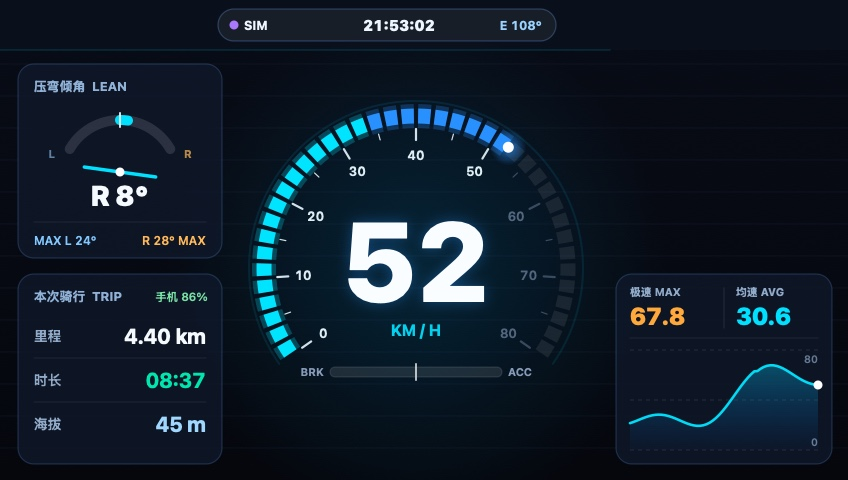
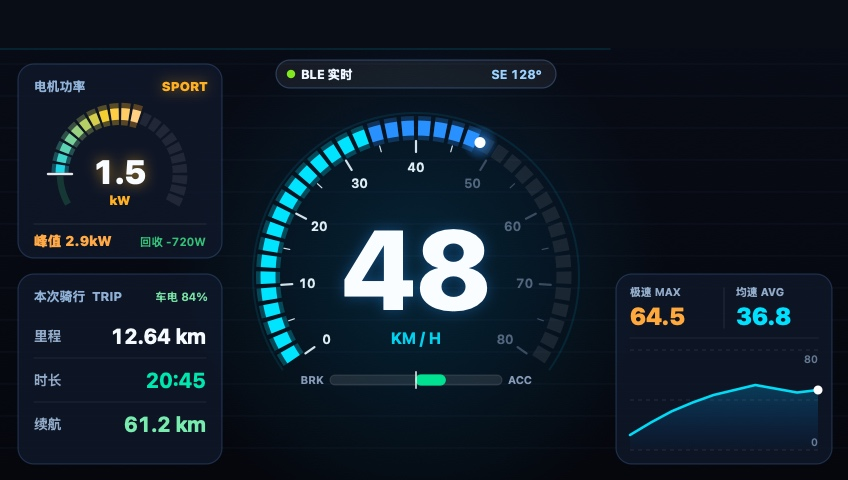
docs: showcase all 5 themes including Hyperdrive and beginner-friendly setup guide

diff --git a/README.md b/README.md
@@ -1,99 +1,189 @@
 <div align="center">
   <img src="assets/app-icon.png" alt="NinebotDash Icon" width="112" />
   <h1>NinebotDash</h1>
-  <p><strong>专为九号 5 寸全彩 TFT 仪表（848×480）打造的自定义 GPS 运动仪表投屏 App</strong></p>
+  <p><strong>把九号 5 寸彩色仪表变成你的专属运动座舱（支持免密钥 GPS 投屏 & 离线蓝牙实车遥测）</strong></p>
 
   <p>
     <a href="https://github.com/zyfzsi/NinebotDash/releases/latest">
       <img src="https://img.shields.io/github/v/release/zyfzsi/NinebotDash?label=Latest%20Release&color=0ea5e9&style=flat-square" alt="Latest Release" />
     </a>
-    <img src="https://img.shields.io/badge/iOS-16.0%2B%20(arm64)-10b981?style=flat-square" alt="iOS 16.0+" />
+    <img src="https://img.shields.io/badge/iOS-16.0%2B%20(iPhone)-10b981?style=flat-square" alt="iOS 16.0+" />
     <img src="https://img.shields.io/badge/Ninebot-5%E5%AF%B8%20848%C3%97480-f59e0b?style=flat-square" alt="Ninebot 5-inch" />
+    <img src="https://img.shields.io/badge/BLE-%E7%BA%AF%E5%8F%AA%E8%AF%BB%E4%B8%8D%E6%94%B9%E8%BD%A6-38bdf8?style=flat-square" alt="BLE Read-Only" />
   </p>
 
   <p>
-    <a href="https://github.com/zyfzsi/NinebotDash/releases/latest"><strong>立即下载最新 IPA</strong></a>
+    <a href="https://github.com/zyfzsi/NinebotDash/releases/latest"><strong>立即下载最新安装包 (IPA)</strong></a>
     ·
-    <a href="#四套内置主题预览">主题预览</a>
+    <a href="#五套内置主题预览">五套主题预览</a>
     ·
-    <a href="#安装与上车使用">安装与使用</a>
+    <a href="#新手-3-步上手教程零基础直接用">3 步新手教程</a>
     ·
-    <a href="https://github.com/zyfzsi/NinebotDash/issues">问题反馈</a>
+    <a href="#进阶可选离线蓝牙遥测配置说明">蓝牙配置说明</a>
+    ·
+    <a href="#常见问题答疑">常见问题</a>
+    ·
+    <a href="https://github.com/zyfzsi/NinebotDash/issues">反馈问题</a>
   </p>
 </div>
 
 ---
 
-## 简介
+## 一分钟了解 NinebotDash
 
-**NinebotDash** 是一款面向 **九号 5 寸全彩 TFT 仪表** 的 iOS 自定义仪表盘投屏应用：
+**NinebotDash** 是一款专为 **九号 5 寸全彩 TFT 仪表** 打造的 iPhone 自定义仪表盘投屏 App。**不用买外接盒子、不用 CarPlay**，iPhone 连上车子自带的仪表热点，就能把更帅、信息更全的动态仪表实时投到车机屏幕上。
 
-- **无需 CarPlay、无需外接盒子**：手机直连九号仪表热点即可将 `848×480 @ 30 FPS` 高清动态仪表画面实时投射到车机屏幕。
-- **专屏定制，零遮挡避让**：全部主题均按九号 5 寸实机投屏界面精准测绘，完整避开左上状态图标、右上 `READY` 与右侧原生悬浮信息卡片。
-- **低延迟测速 + 30 FPS 丝滑动画**：采用 50 Hz 6 轴惯导（免电机磁场干扰）融合 GNSS 延迟补偿算法，起步响应跟手、急刹迅速归零，配合 30 FPS 临界阻尼动画，速度数字与进度条顺滑扫动不瞬移。
-- **锁屏后台保活**：支持静音混音保活（不打断音乐与语音导航），手机锁屏放兜里依然稳定推流不掉帧。
-- **内置 HTTP 实时预览与日志导出**：支持局域网浏览器实时查看画面、热切主题与下载截图，并在 App 内提供一键导出 `.txt` 诊断日志方便排查反馈。
+### 两种用法，丰俭由人
+
+- 🟢 **新手直接用（免凭证、免折腾）**：装好 App 就能直接上车投屏，自动用手机 GPS + 手机运动传感器测速，一样能看车速、加减速 G 值、本次极速、均速、里程和骑行时间。
+- 🔵 **进阶实时车机数据（导入一次，离线使用）**：导入您自行准备的离线蓝牙凭证后，有效期内完全不用联网，手机直连车辆蓝牙读取 **精准实车车速、实时电机功率 / 动能回收（W / kW）、车辆剩余电量与续航**；蓝牙断开时会自动无缝切回 GPS，绝不黑屏。
+
+### 核心亮点
+
+- **超低延迟，几乎与原厂同步**：针对九号 5 寸仪表深度优化，默认 **`15 FPS` 超低延迟档位**（实车测试肉眼仅慢 1–2 帧，Wi-Fi 延迟 13–54 ms），支持等红灯自动降频帮车机清缓存、一拧电门立刻满帧；还能自动识别官方「九号出行」后台抢通道并弹窗提醒。
+- **全套「肾上腺素」功率动效**：拧油门时功率条从青 → 琥珀 → 橙 → 红 → 炽粉逐级升温，带峰值停留回落与 `ECO / SPORT / BOOST / MAX` 负载分档，松油门动能回收一目了然。
+- **专为九号 5 寸屏避让，零遮挡**：所有主题都精准避开九号顶部原生状态栏（时间、歌名、TCS、READY）和右上角原生信息卡片，不打架、不重叠。
+- **锁屏放兜里也能稳定跑**：支持静音混音后台保活（不打断听歌和导航语音），手机装口袋照样流畅推流。
+- **纯只读更安全**：蓝牙连接严格只读车速、功率、电量、续航，**绝不发送任何修改车辆设置或控车指令**；离线凭证仅加密存在你自己手机的 iOS 钥匙串里，不上传任何服务器。
 
 ---
 
-## 四套内置主题预览
+## 五套内置主题预览
 
-支持在 iPhone App 或局域网预览网页中一键实时热切：
+支持在 App 里**骑行中一键实时切换**，全系适配 5 寸屏实车可读性，且内置 `60 / 80 / 100 / 120 km/h` 最高刻度自由调节：
 
-| 宝马运动（中文全宽版） | 宝马运动（高速红线压弯） |
+### 1. 超维引擎（HYPERDRIVE）—— 科幻反应堆 & 曲速星流
+> 60 段霓虹速度环 + 彗星光头、随行驶里程转动的涡轮环、随车速拉长飞驰的曲速星流背景，全力输出时边缘呼吸脉冲。
+
+| 日常巡航 | 红区全力爆发（MAX） |
+| :---: | :---: |
+| ![超维引擎巡航](assets/hyper.jpg) | ![超维引擎爆发](assets/hyper-redline.jpg) |
+
+### 2. 宝马运动（BMW Sport v2）—— 经典机车 TFT 风格
+> 超大 150pt 斜体主车速（进入橙/红区自动变色发光）、折线爬坡速度推进带、双向功率/回收表与底部斜切信息胶囊。
+
+| 日常巡航 | 高速红线（S+ / MAX） |
 | :---: | :---: |
 | ![宝马运动](assets/bmw.jpg) | ![宝马运动红线](assets/bmw-redline.jpg) |
 
-| 运动霓虹 | 赛道遥测 |
+### 3. 运动霓虹 / 赛道遥测 / 极简高亮
+
+| 运动霓虹（经典科技风） | 赛道遥测（MotoGP 转速条） |
 | :---: | :---: |
 | ![运动霓虹](assets/cyber.jpg) | ![赛道遥测](assets/track.jpg) |
 
 <div align="center">
-  <p><strong>极简高亮（正午强光直视优化）</strong></p>
+  <p><strong>极简高亮（白底黑字，正午大太阳下照样一眼看清）</strong></p>
   <img src="assets/daylight.jpg" alt="极简高亮" width="520" />
 </div>
 
 ---
 
-## 核心功能一览
+## 新手 3 步上手教程（零基础直接用）
 
-- **多维实时骑行遥测**：实时车速、本次极速、均速、骑行里程与计时、压弯实时倾角与左右历史极值、纵向加减速 G 值、海拔高度与指南针航向、手机电量与时间。
-- **可调速度表满刻度**：设置页支持一键切换 `60 / 80 / 100 / 120 km/h` 满刻度，自动重排刻度与橙/红警示区。
-- **可调 GPS 延迟补偿**：内置 `轻度 (0.8s)` / `标准 (1.4s · 推荐)` / `激进 (2.0s)` 三挡惯导补偿，按不同车型和路况自由微调手感；也可关闭融合切换纯直通 GPS。
-- **倾角一键归零 & 防误触**：支持任意手机支架角度或揣兜姿态一键归零，自动过滤手持晃动误记录最大倾角。
+> **先说重点**：如果你只是想先体验自定义仪表投屏，**完全不需要配置蓝牙凭证**！照下面 3 步做，3 分钟就能在车上亮屏。
 
----
+### 第 1 步：把 NinebotDash 安装到 iPhone
 
-## 安装与上车使用
+1. 点这里打开 [最新版本下载页 (Releases)](https://github.com/zyfzsi/NinebotDash/releases/latest)，下载 **`NinebotDash-*-unsigned.ipa`**（要求 `iOS 16.0` 及以上系统的 iPhone）。
+2. 根据你的手机情况，选一种方式安装：
+   - **情况 A：手机装了巨魔（TrollStore）—— 最省事**
+     下载好 `.ipa` 后，点左下角分享图标 → 选择 **用 TrollStore 打开** → 点安装，永久有效不用续签。
+   - **情况 B：普通未越狱 iPhone —— 用电脑签名安装**
+     1. 电脑下载免费工具 **[Sideloadly](https://sideloadly.io/)**（Windows / Mac 都支持，或用 AltStore / SideStore / 爱思助手签名）。
+     2. 数据线连接 iPhone 和电脑，把刚下载的 `.ipa` 拖进 Sideloadly，填自己的 Apple ID 点 **Start** 等待装完。
+     3. 装好后第一次点图标会提示“未受信任”，去 iPhone **设置 → 通用 → VPN 与设备管理**，点开你的账号选择 **信任** 就能正常打开了。
+     > 提示：普通免费 Apple ID 签名每 **7 天** 需要连电脑点一次续签；如果你有个人/企业签名证书或巨魔，则可长期使用。
 
-### 1. 下载与安装 IPA
+### 第 2 步：首次打开 App，给齐权限
 
-1. 前往本仓库 [Releases 页面](https://github.com/zyfzsi/NinebotDash/releases/latest) 下载最新的 **`NinebotDash-*-unsigned.ipa`**（最低要求 `iOS 16.0`，`arm64`）。
-2. 使用你常用的 iOS 安装/签名工具安装到 iPhone：
-   - **TrollStore（巨魔）**：直接导入安装，永久有效。
-   - **AltStore / SideStore / Sideloadly / 个人开发者证书**：导入并签名安装。
+1. 打开 **NinebotDash**，系统弹出的权限请全部允许：
+   - **定位权限**：建议去「设置 → NinebotDash → 位置」改为 **「始终」**，这样锁屏把手机放兜里才不会中断。
+   - **本地网络**：**必须允许**，否则手机无法把画面发给车机。
+   - **蓝牙 & 运动与健身**：允许，用来连车辆蓝牙以及让 GPS 测速更跟手。
+2. 在 App 里你可以先开着 **「模拟骑行模式」** 在家预览 5 套主题的效果；**准备上车实测时，记得把「模拟骑行模式」关掉**。
 
-### 2. 上车投屏步骤
+### 第 3 步：上车投屏（🚨 照做绝不卡顿）
 
-1. 在九号车辆上打开 5 寸仪表的**投屏功能**，让 iPhone 在系统设置中连上九号仪表 Wi-Fi（默认仪表 IP 为 `192.168.1.1`）。
-2. 打开 **NinebotDash**，首次使用请允许**定位（建议“始终”以支持锁屏）**、**运动与健身**、**本地网络**权限。
-3. 关闭 **「模拟骑行模式」** 以切换为真实传感器测速。
-4. 将手机放稳或固定到车把后，点击一次 **「倾角归零」**。
-5. 选择喜欢的主题，点击 **「开始投屏到九号 5 寸仪表」**，状态变为 **「仪表已回应 · 正在推流」** 即可骑行。
-
----
-
-## 常见问题
-
-- **Q：投屏没有画面或一直显示“等待九号仪表回应”？**  
-  请确认：① iPhone 已连上九号仪表热点（非普通家用 Wi-Fi）；② 仪表端已经进入投屏接收页面；③ 系统设置 → 隐私与安全性 → 本地网络 中已允许 NinebotDash；④ 若仪表 IP 不是默认 `192.168.1.1`，可在 App 右上角设置里修改。
-- **Q：如何反馈 Bug 或测速手感问题？**  
-  在 App 底部的「诊断日志与导出」中点击 **「导出日志 (.txt)」**，前往 [Issues](https://github.com/zyfzsi/NinebotDash/issues) 提交问题描述并附上日志片段（注意可自行删去不需要公开的信息）。
-- **Q：安全提示**  
-  本工具仅作为辅助骑行展示界面，实际车速与安全请始终以车辆原厂仪表与路面情况为准，骑行时请勿低头长时间操作手机。
+1. **开启车机投屏**：在九号车上（或先打开官方「九号出行」）启动 **5 寸仪表投屏**，然后打开 iPhone 的 **设置 → 无线局域网（Wi-Fi）**，连上九号仪表发出的热点。
+2. **🚨 最关键一步：把官方「九号出行」从后台上划彻底关掉！**
+   > **为什么一定要关？** 官方 App 留在后台会一直占着仪表投屏和蓝牙通道，导致画面延迟 1–3 秒甚至蓝牙频繁断线。只要上划划掉它，画面立刻丝滑如原厂！如果你忘了关，NinebotDash 主界面顶部也会弹出**橙色提示条**提醒你。
+3. **开始推流**：切回 **NinebotDash**，选好你喜欢的主题，点击蓝色大按钮 **「开始投屏到九号 5 寸仪表」**。
+4. **看到「仪表已回应 · 正在推流」就成功了！** 此时可以直接锁屏把手机放进口袋骑行（如果之前配置了蓝牙离线凭证，顺手点一下「连接」即可显示实时功率和车电）。
 
 ---
 
-## 说明与许可
+## 进阶（可选）：离线蓝牙遥测配置说明
 
-本仓库仅对外提供产品说明、效果展示与编译发布包（Releases），不包含源代码。详见 [LICENSE](LICENSE)。
+> **先说明**：这一步完全可选！不配置蓝牙凭证也能正常使用 GPS + 手机传感器投屏。  
+> 如果你想在仪表上显示更精准的 **实车车速、实时电机功率 / 动能回收、车辆电量与剩余续航**，则**需要自行获取并准备本车的离线蓝牙凭证**（**本仓库与 App 均不公开、不提供获取方法**）。
+
+### 如何导入你已准备好的离线凭证
+
+1. **填入 14 位车架号 `SN`**：站在通电的爱车旁 → 打开 **NinebotDash** → 点 **「蓝牙凭证配置」** → 点 **「扫描附近九号车辆自动填入 SN」** 选中你的车子即可（也可手动输入 14 位车架号）。
+2. **粘贴你的离线凭证**：将你**自行准备的 32 位十六进制离线蓝牙凭证**（或完整授权 JSON）粘贴到输入框中，点击 **「保存到钥匙串」**。
+3. **连接使用**：主流电动二轮车保持默认车型预设即可（GT3 / G3 / ZT3 等滑板车可在车型预设中切换对应档位），上车后点击 **「连接车辆」** 即可离线读取实车遥测。
+
+> **隐私与安全提示**：
+> - 离线蓝牙凭证属于你的个人单车凭证，**请妥善保管，切勿发给他人或上传到网络**。
+> - NinebotDash 仅把凭证加密保存在你自己的 iPhone 本地钥匙串中，绝不上传任何服务器；且蓝牙协议层严格只读，绝不发送任何控车或修改车辆设置的指令。
+
+---
+
+## 常见问题答疑
+
+<details>
+<summary><strong>1. 为什么车机上的画面比手机慢 1–3 秒？</strong></summary>
+
+99% 是因为官方 **「九号出行」还留在手机后台没有关掉**！请按下面检查：
+1. 上划切换多任务，把 **「九号出行」彻底划掉**，然后回到 NinebotDash 点停止再重新开始投屏（如果主界面出现**橙色端口占用提醒条**，就说明官方 App 还在后台占着通道）。
+2. 点右上角「设置」，确认推流帧率在推荐的 **`15 FPS（超低延迟推荐）`**（如果手调了 `25` 或 `30 FPS`，老款或信号一般时车机容易消化不过来导致积压延迟）。
+
+</details>
+
+<details>
+<summary><strong>2. 一直显示「等待九号仪表回应」，车机上没画面怎么办？</strong></summary>
+
+按顺序核对这 4 件事：
+1. **Wi-Fi 连对了吗？** 必须连上九号仪表发出的热点，不是家里的 Wi-Fi，也不是纯 4G/5G。
+2. **车机进投屏页了吗？** 仪表屏幕需要处于投屏等待接收状态。
+3. **本地网络权限开了吗？** 去 iPhone「设置 → 隐私与安全性 → 本地网络」，确认 NinebotDash 开关是打开的。
+4. **仪表 IP 对吗？** 默认是 `192.168.1.1`，极少数车型如有不同可在 App 右上角「设置」里修改。
+
+</details>
+
+<details>
+<summary><strong>3. 「超维引擎」这种带动态特效的主题，省电模式会让动画卡住吗？</strong></summary>
+
+**不会！** 只有车子彻底停在 `0 km/h` 等红灯且没有拧油门时，App 才会自动降到每秒 2 帧帮车机清缓存；只要你一拧电门、车在动、或者正在播放星流/功率峰值回落/红区闪烁，都会瞬间恢复满帧流畅运行。
+
+</details>
+
+<details>
+<summary><strong>4. 连蓝牙安全吗？会不会改车子参数、锁车或者影响质保？</strong></summary>
+
+**完全安全。** 蓝牙模块在代码层面严格限制为**只读**（仅做身份认证和读取车速、功率、电量、续航数据），绝不会发送任何写指令或控车指令；你的离线蓝牙凭证也只加密保存在你自己的手机本地钥匙串，不会上传到任何服务器。
+
+</details>
+
+<details>
+<summary><strong>5. 蓝牙提示「离线蓝牙凭证已过期或与车辆不匹配」或偶尔断线重连怎么办？</strong></summary>
+
+- **提示过期/不匹配**：说明离线凭证已到期、在别处被重新签发，或者填错了 SN。请自行重新准备本车新的离线蓝牙凭证后在蓝牙配置页重新导入即可。
+- **骑行中偶尔断连**：九号蓝牙不允许两个 App 同时连车，请确认已经把官方「九号出行」从后台划掉。
+
+</details>
+
+<details>
+<summary><strong>6. 遇到 Bug 或想提建议怎么反馈？</strong></summary>
+
+在 App 底部点 **「导出日志 (.txt)」**（日志中不含任何凭证或密钥信息，不会泄露隐私），然后到本仓库的 [Issues 页面](https://github.com/zyfzsi/NinebotDash/issues) 描述现象并贴上日志内容即可。
+
+</details>
+
+---
+
+## 安全提醒与说明
+
+- 本工具仅作为辅助骑行展示界面，**实际车速与行车安全请始终以车辆原厂显示与路面情况为准，骑行途中请勿低头操作手机**。
+- 本仓库仅对外提供产品说明、效果展示与编译好的安装包（Releases），不包含源代码。详见 [LICENSE](LICENSE)。
